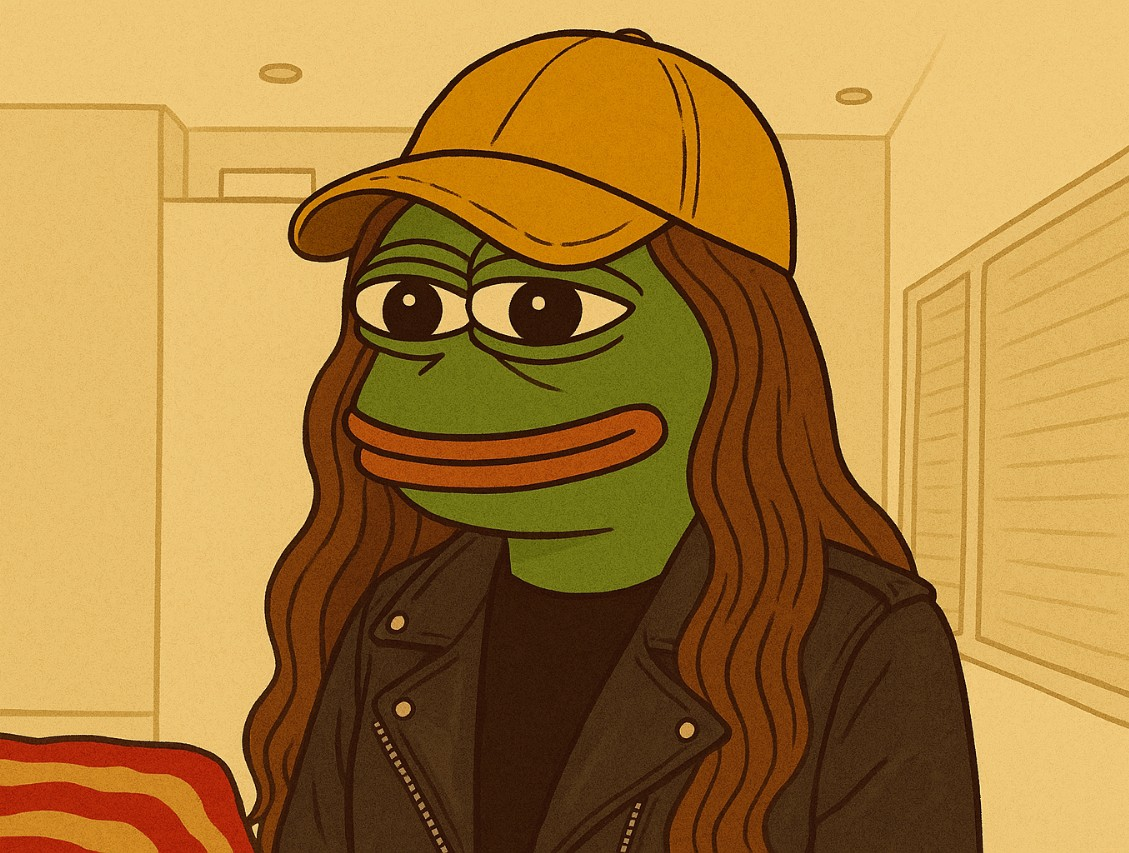
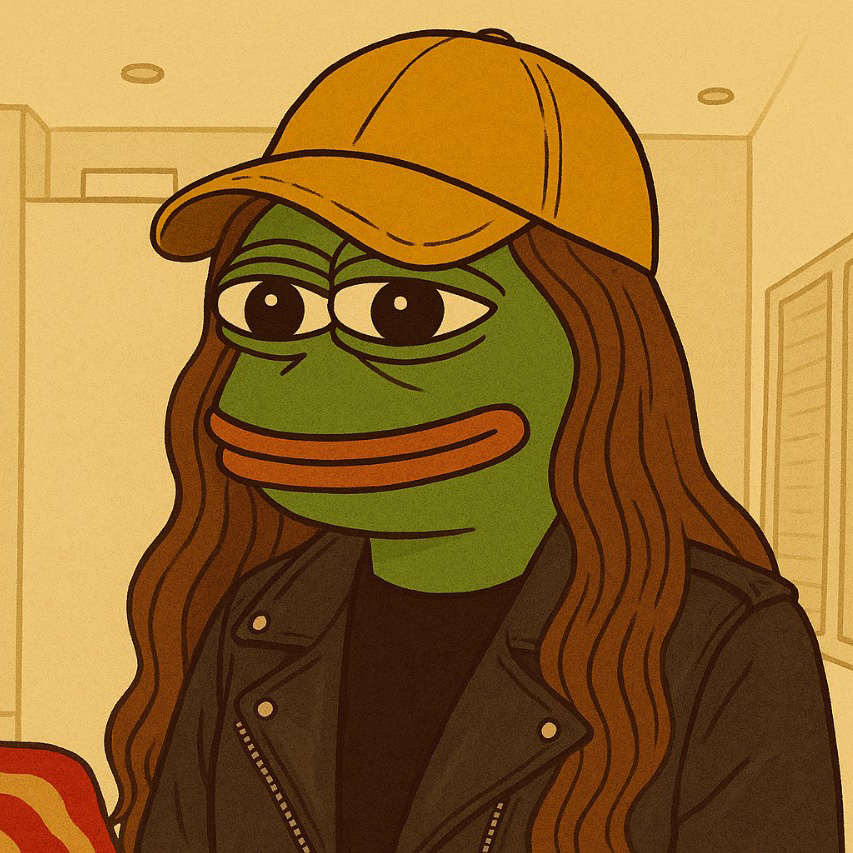
Redimensionado de Pepes

diff --git a/index.html b/index.html
@@ -48,7 +48,7 @@
 
   <div class="team-cards">
     <div class="team-card">
-      <img src="img/hernan.jpg" alt="Hernan Burgos">
+      <img src="img/PepeHernan.png" alt="Hernan Burgos">
       <a href="hernan.html">Hernan Burgos</a>
     </div>
     <div class="team-card">
